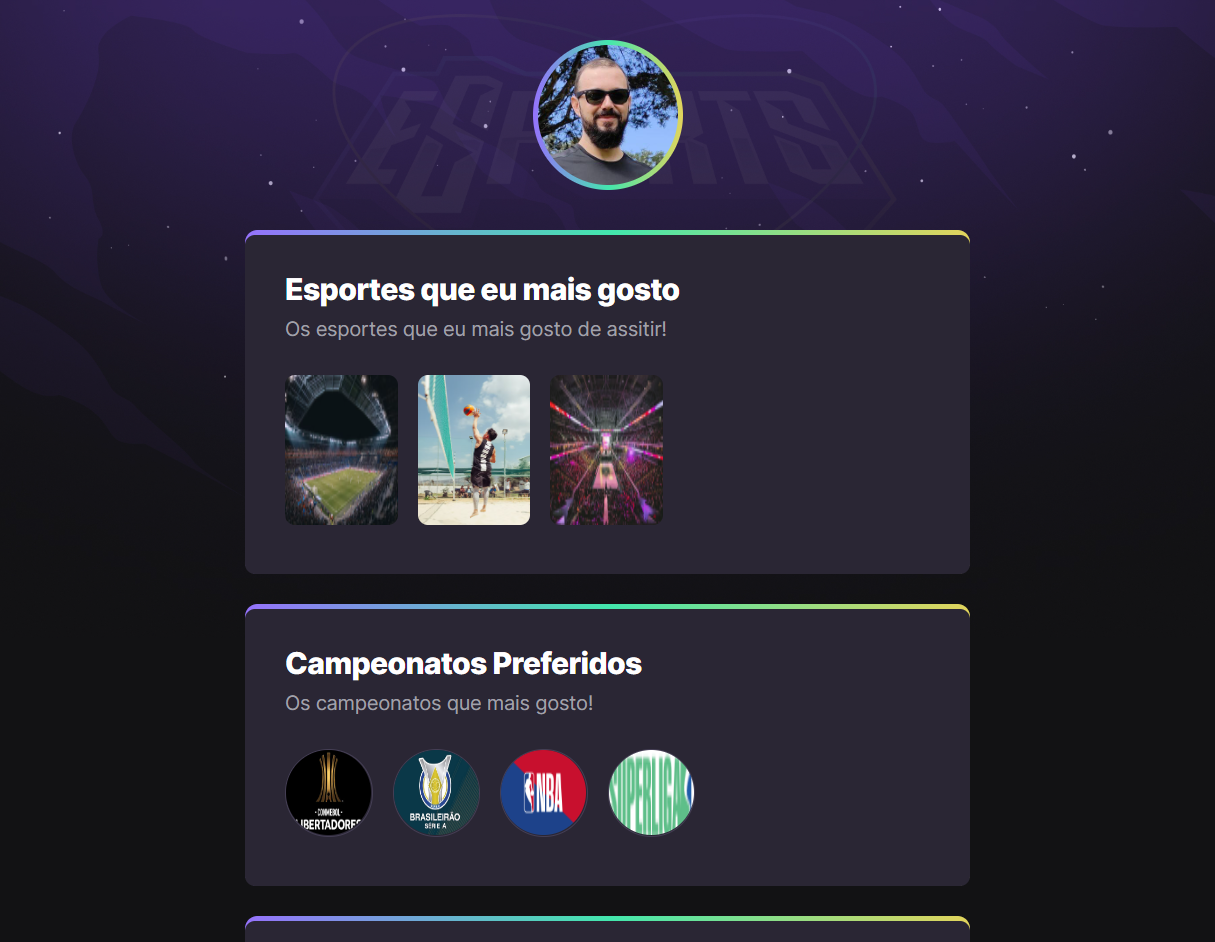
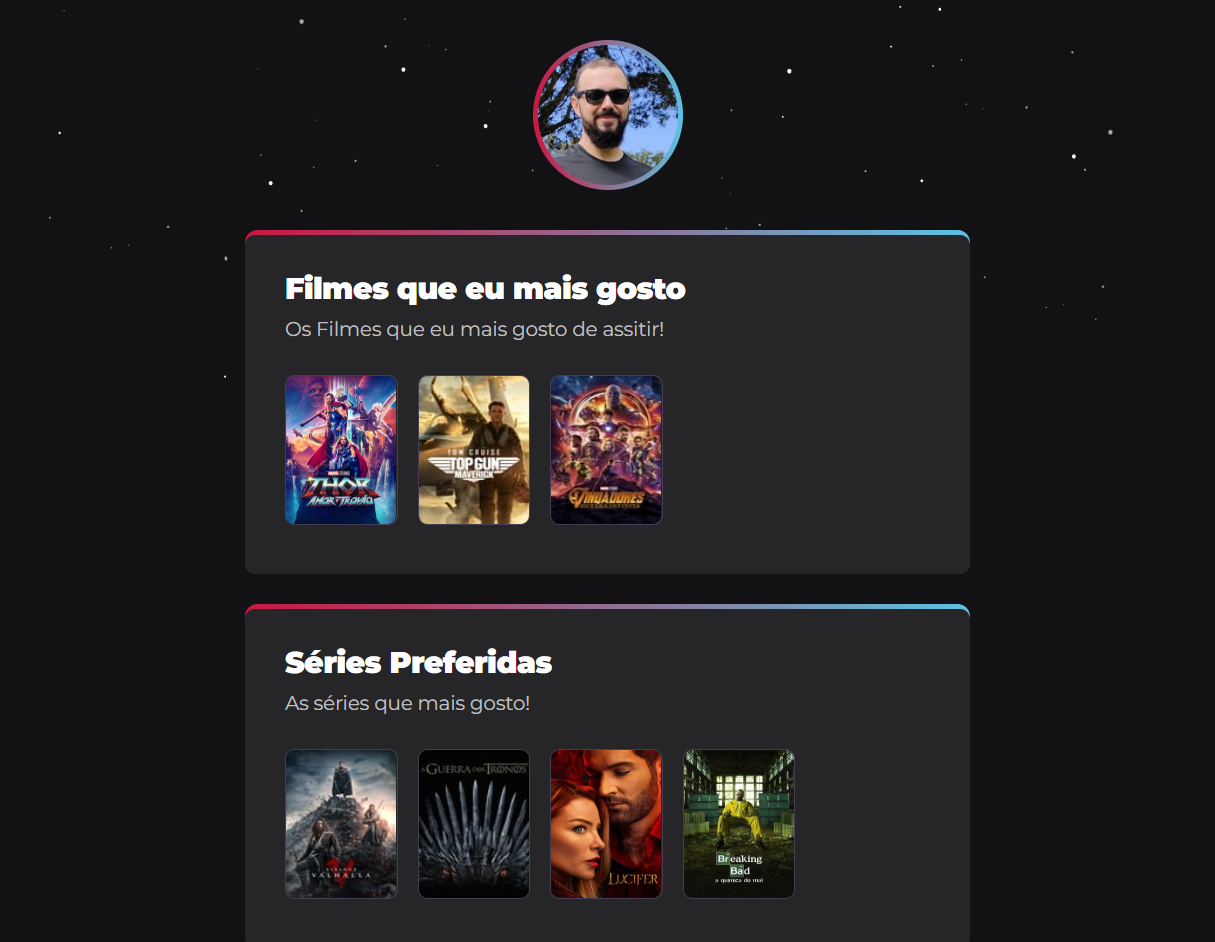
Personalização e finalização do projeto

diff --git a/index.html b/index.html
@@ -7,7 +7,7 @@
     <meta charset="UTF-8" />
     <meta name="viewport" content="width=device-width, initial-scale=1.0" />
     <title>NLW eSports</title>
-    <link href="https://fonts.googleapis.com/css2?family=Inter:wght@400;800&display=swap" rel="stylesheet">
+    <link href="https://fonts.googleapis.com/css2?family=Montserrat:wght@400;900&display=swap" rel="stylesheet">
 
     <link rel="stylesheet" href="./style.css">
 </head>
@@ -23,28 +23,28 @@
 
         <section>
             <div>
-                <h2>Esportes que eu mais gosto</h2>
-                <p>Os esportes que eu mais gosto de assitir!</p>
+                <h2>Filmes que eu mais gosto</h2>
+                <p>Os Filmes que eu mais gosto de assitir!</p>
 
-                <ul class="sports-list">
+                <ul class="movies-list">
                     <li>
-                        <a target="_blank" href="https://www.instagram.com/cbf_futebol/">
-                            <img src="https://images.unsplash.com/photo-1508098682722-e99c43a406b2?ixlib=rb-1.2.1&ixid=MnwxMjA3fDB8MHxzZWFyY2h8Mnx8c29jY2VyfGVufDB8fDB8fA%3D%3D&auto=format&fit=crop&w=500&q=60"
-                                alt="imagem de um estadio de futebol">
+                        <a target="_blank" href="https://www.themoviedb.org/movie/616037-thor-love-and-thunder">
+                            <img src="https://www.themoviedb.org/t/p/w220_and_h330_face/71XnRvkadkWZZowCGcuBi4XAKdJ.jpg"
+                                alt="filme thor">
                         </a>
                     </li>
 
                     <li>
-                        <a target="_blank" href="https://www.instagram.com/cbvolei/">
-                            <img src="https://images.unsplash.com/photo-1553524229-2695bb76bce9?ixlib=rb-1.2.1&ixid=MnwxMjA3fDB8MHxzZWFyY2h8OXx8dm9sZWlib2x8ZW58MHx8MHx8&auto=format&fit=crop&w=500&q=60"
-                                alt="imagem de um homem jogando volei">
+                        <a target="_blank" href="https://www.themoviedb.org/movie/361743-top-gun-maverick">
+                            <img src="https://www.themoviedb.org/t/p/w94_and_h141_bestv2/jTrXwK56EoLHHxfBkpwGdfmy2uh.jpg"
+                                alt="filme top gun">
                         </a>
                     </li>
 
                     <li>
-                        <a target="_blank" href="https://www.instagram.com/nbabrasil/">
-                            <img src="https://images.unsplash.com/photo-1504450758481-7338eba7524a?ixlib=rb-1.2.1&ixid=MnwxMjA3fDB8MHxzZWFyY2h8N3x8YmFzcXVldGV8ZW58MHx8MHx8&auto=format&fit=crop&w=500&q=60"
-                                alt="imagem de uma quadra de baskete">
+                        <a target="_blank" href="https://www.themoviedb.org/movie/299536-avengers-infinity-war">
+                            <img src="https://www.themoviedb.org/t/p/w94_and_h141_bestv2/89QTZmn34iwXYeCpVxhC9UrT8sX.jpg"
+                                alt="vingadores">
                         </a>
                     </li>
 
@@ -54,35 +54,35 @@
 
         <section>
             <div>
-                <h2>Campeonatos Preferidos</h2>
-                <p>Os campeonatos que mais gosto!</p>
+                <h2>Séries Preferidas</h2>
+                <p>As séries que mais gosto!</p>
 
-                <ul class="championship-list">
+                <ul class="series-list">
                     <li>
-                        <a target="_blank" href="https://www.instagram.com/libertadoresbr/">
-                            <img src="https://s3.static.brasilescola.uol.com.br/be/2022/03/taca-da-libertadores.jpg"
-                                alt="imagem do campeonato libertadores">
+                        <a target="_blank" href="https://www.themoviedb.org/tv/116135-vikings-valhalla">
+                            <img src="https://www.themoviedb.org/t/p/w94_and_h141_bestv2/izIMqapegdEZj0YVDyFATPR8adh.jpg"
+                                alt="serie vikings">
                         </a>
                     </li>
 
                     <li>
-                        <a target="_blank" href="https://www.instagram.com/brasileirao/">
-                            <img src="https://static-wp-tor15-prd.torcedores.com/wp-content/uploads/2022/06/brasileirao-serie-a-confusao-pode-render-punicao-clubes.png"
-                                alt="imagem do campeonato brasileiro de futebol serie A">
+                        <a target="_blank" href="https://www.themoviedb.org/tv/1399-game-of-thrones">
+                            <img src="https://www.themoviedb.org/t/p/w94_and_h141_bestv2/l2ezB41chGDjXcKo24lseuXYtKP.jpg"
+                                alt="serie game of thrones">
                         </a>
                     </li>
 
                     <li>
-                        <a target="_blank" href="https://www.instagram.com/nbabrasil/">
-                            <img src="https://static-wp-tor15-prd.torcedores.com/wp-content/uploads/2019/04/nba.png"
-                                alt="imagem do campeonato de baskete NBA">
+                        <a target="_blank" href="https://www.themoviedb.org/tv/63174-lucifer">
+                            <img src="https://www.themoviedb.org/t/p/w220_and_h330_face/hdKxcoV5CFc3sGOmbGXDXbx1cTZ.jpg"
+                                alt="serie lucifer">
                         </a>
                     </li>
 
                     <li>
-                        <a target="_blank" href="https://www.instagram.com/cbvolei/">
-                            <img src="https://cronos-media.sesisenaisp.org.br//api/media/1-0/files?img=img_59_180208_44bbc56c-3928-48e4-a377-908f4acf3f9f_o.jpg"
-                                width="150" height="150" alt="imagem superliga nacional de volei">
+                        <a target="_blank" href="https://www.themoviedb.org/tv/1396-breaking-bad">
+                            <img src="https://www.themoviedb.org/t/p/w220_and_h330_face/30erzlzIOtOK3k3T3BAl1GiVMP1.jpg"
+                                alt="serie breaking-bad ">
                         </a>
                     </li>
 
@@ -98,13 +98,33 @@
                 <ul class="social-list">
                     <li>
                         <a target="_blank" href="https://www.instagram.com/ricardo.j.costa/">
-                            <img src="./images/InstagramLogo.png" width="32" height="32" alt="imagem logo do instagram">
+                            <svg width="32" height="32" viewBox="0 0 32 32" fill="none"
+                                xmlns="http://www.w3.org/2000/svg">
+                                <path
+                                    d="M16 21C18.7614 21 21 18.7614 21 16C21 13.2386 18.7614 11 16 11C13.2386 11 11 13.2386 11 16C11 18.7614 13.2386 21 16 21Z"
+                                    stroke="#EEEEEE" stroke-width="2" stroke-miterlimit="10" />
+                                <path
+                                    d="M21.5 4.5H10.5C7.18629 4.5 4.5 7.18629 4.5 10.5V21.5C4.5 24.8137 7.18629 27.5 10.5 27.5H21.5C24.8137 27.5 27.5 24.8137 27.5 21.5V10.5C27.5 7.18629 24.8137 4.5 21.5 4.5Z"
+                                    stroke="#EEEEEE" stroke-width="2" stroke-linecap="round" stroke-linejoin="round" />
+                                <path
+                                    d="M22.5 11C23.3284 11 24 10.3284 24 9.5C24 8.67157 23.3284 8 22.5 8C21.6716 8 21 8.67157 21 9.5C21 10.3284 21.6716 11 22.5 11Z"
+                                    fill="#EEEEEE" />
+                            </svg>
+
                         </a>
                     </li>
 
                     <li>
                         <a target="_blank" href="https://www.youtube.com/channel/UC8JjVOQhh7IQDkfaYzU0Rcg">
-                            <img src="./images/YoutubeLogo.png" width="32" height="32" alt="link logo youtube">
+                            <svg width="32" height="32" viewBox="0 0 32 32" fill="none"
+                                xmlns="http://www.w3.org/2000/svg">
+                                <path d="M20 16L14 12V20L20 16Z" stroke="#EEEEEE" stroke-width="2"
+                                    stroke-linecap="round" stroke-linejoin="round" />
+                                <path
+                                    d="M3 16C3 19.725 3.3875 21.9 3.675 23.025C3.75427 23.3302 3.90418 23.6126 4.11262 23.8493C4.32106 24.0859 4.58221 24.2703 4.875 24.3875C9.0625 25.9875 16 25.95 16 25.95C16 25.95 22.9375 25.9875 27.125 24.3875C27.4178 24.2703 27.6789 24.0859 27.8874 23.8493C28.0958 23.6126 28.2457 23.3302 28.325 23.025C28.6125 21.9 29 19.725 29 16C29 12.275 28.6125 10.1 28.325 8.975C28.2457 8.66975 28.0958 8.38741 27.8874 8.15074C27.6789 7.91407 27.4178 7.7297 27.125 7.6125C22.9375 6.0125 16 6.05 16 6.05C16 6.05 9.0625 6.0125 4.875 7.6125C4.58221 7.7297 4.32106 7.91407 4.11262 8.15074C3.90418 8.38741 3.75427 8.66975 3.675 8.975C3.3875 10.1 3 12.275 3 16Z"
+                                    stroke="#EEEEEE" stroke-width="2" stroke-linecap="round" stroke-linejoin="round" />
+                            </svg>
+
                         </a>
                     </li>
 
@@ -128,7 +148,7 @@
                             </svg>
 
                         </a>
-                    </li>                   
+                    </li>
 
                 </ul>
             </div>

diff --git a/style.css b/style.css
@@ -17,7 +17,7 @@ body {
 }
 
 body * {
-    font-family: 'Inter', sans-serif;
+    font-family: 'Montserrat', sans-serif;
     line-height: 160%;
 }
 
@@ -29,7 +29,7 @@ header {
 header div {
     width: 120px;
     margin: auto;
-    background-image: linear-gradient(90deg, #9572FC 0%, #43E7AD 50.52%, #E2D45C 100%);
+    background-image: linear-gradient(90deg, #C91842 0%, #5CC2E2 100%);
 
     border-radius: 50%;
 
@@ -62,13 +62,13 @@ main {
 
 section {
     color: white;
-    background-image: linear-gradient(90deg, #9572FC 0%, #43E7AD 50.52%, #E2D45C 100%);
+    background-image: linear-gradient(90deg, #C91842 0%, #5CC2E2 100%);
     padding-top: 4px;
     border-radius: 10px;
 }
 
 section div {
-    background-color: #2A2634;
+    background-color: #262629;
     padding: 32px;
     padding-top: 24px;
     border-radius: 8px;
@@ -76,12 +76,14 @@ section div {
 
 section h2 {
     letter-spacing: -0.47px;
-
+    font-size: 24px;
 }
 
 section p {
+    font-size: 16px;
     letter-spacing: -0.18px;
-    color: #A1A1AA;
+
+    color: #C1C1C1;
 }
 
 section ul {
@@ -99,16 +101,17 @@ section ul li:hover {
     transform: scale(1.1);
 }
 
-.sports-list img {
+.movies-list img {
     border-radius: 8px;
     width: 90px;
     height: 120px;
+    border: 1px solid #443E54;
 }
 
-.championship-list img {
-    border-radius: 50%;
-    width: 70px;
-    height: 70px;
+.series-list img {
+    border-radius: 8px;
+    width: 90px;
+    height: 120px;
     border: 1px solid #443E54;
 }
 
@@ -119,19 +122,19 @@ header div {
 
 }
 
-main section{
+main section {
     animation: fromBottom .7s backwards;
 }
 
-main section:nth-child(1){
+main section:nth-child(1) {
     animation-delay: 0;
 }
 
-main section:nth-child(2){
+main section:nth-child(2) {
     animation-delay: .4s;
 }
 
-main section:nth-child(3){
+main section:nth-child(3) {
     animation-delay: .8s;
 }
 
